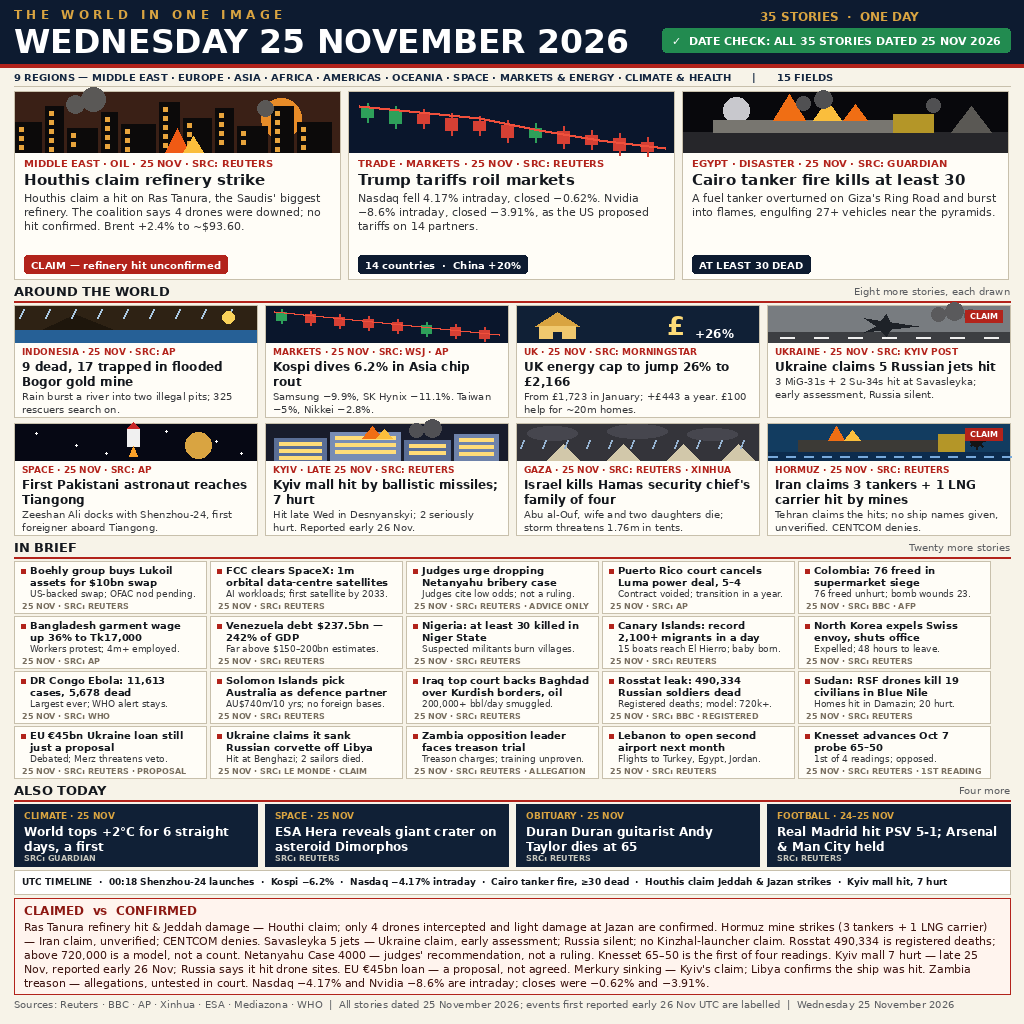
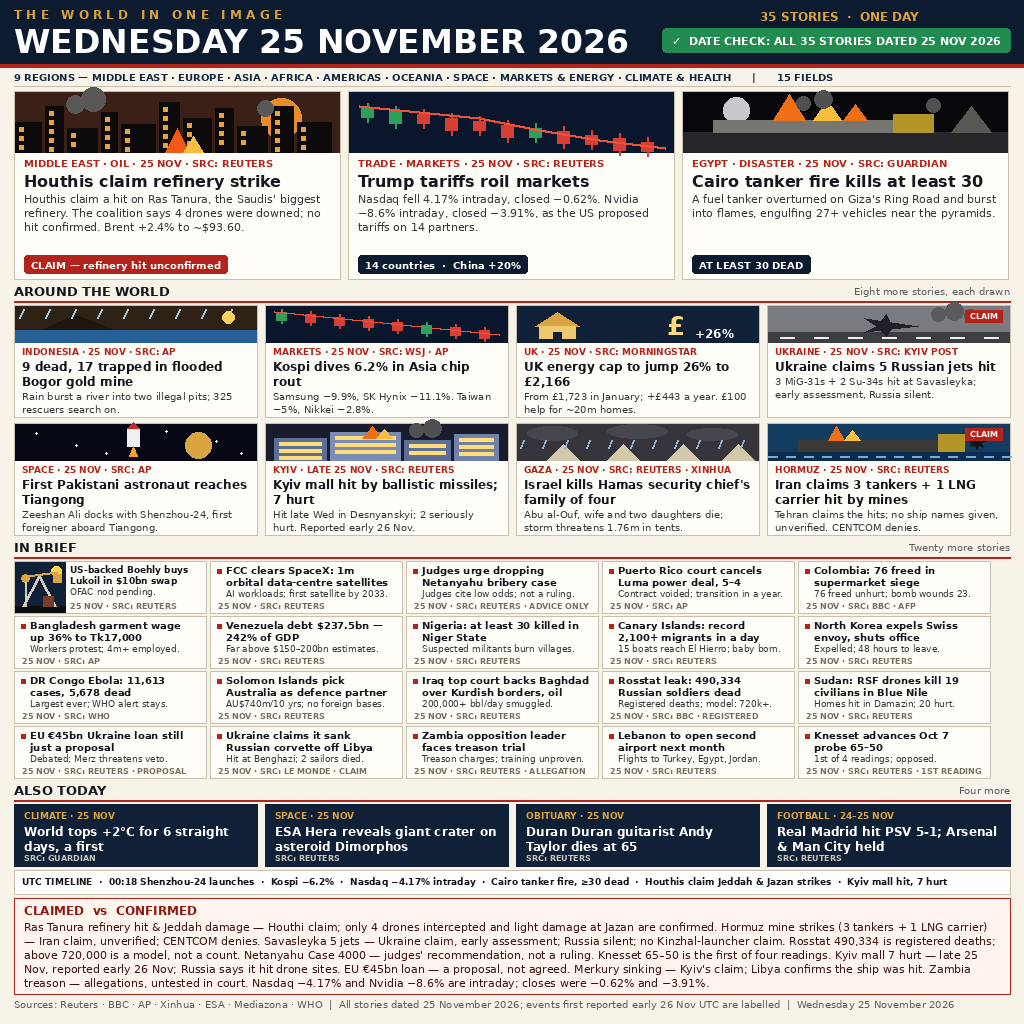
news image 25 nov v4

diff --git a/main.ts b/main.ts
@@ -1,4 +1,4 @@
-// news-image-20261125 v3 — entrypoint.
+// news-image-20261125 v4 — entrypoint.
 //
 // The finished 1024x1024 entry.png sits next to this file. This script
 // validates it byte by byte and then copies it to
@@ -13,7 +13,7 @@
 //   * at least one non-empty IDAT chunk, all IDAT chunks consecutive,
 //     a well-formed IEND, no trailing bytes, and total size at most 1 MiB
 //   * a PLTE chunk, if present, holds whole RGB entries (length % 3 == 0,
-//     at most 256 entries)
+//     at most 256 entries) and appears at most once
 // After copying, the output file is read back and its sha256 and size
 // must match the source exactly. Node 22 stdlib only — no dependencies,
 // no network. A plain copy, so two runs are byte-identical.
@@ -64,6 +64,7 @@ let chunkCount = 0;
 let foundIHDR = false;
 let foundIDAT = false;
 let foundIEND = false;
+let foundPLTE = false;
 let idatStarted = false;
 let idatEnded = false;
 let idatBytes = 0;
@@ -105,11 +106,22 @@ while (offset < png.length) {
     }
   }
   if (type === "PLTE") {
+    if (foundPLTE) die("duplicate PLTE chunk");
+    foundPLTE = true;
     if (length % 3 !== 0) die("PLTE length must be a multiple of 3, got " + length);
     if (length > 768) die("PLTE holds at most 256 entries, got " + length / 3);
   }
   if (type === "IDAT") {
     if (idatEnded) die("IDAT chunks are not consecutive");
+    if (!idatStarted && length >= 2) {
+      // First IDAT bytes must be a valid zlib stream header (CMF 0x78,
+      // and (CMF * 256 + FLG) divisible by 31).
+      const cmf = png[dataStart];
+      const flg = png[dataStart + 1];
+      if (cmf !== 0x78 || (cmf * 256 + flg) % 31 !== 0) {
+        die("first IDAT chunk does not start with a valid zlib header");
+      }
+    }
     idatStarted = true;
     idatBytes += length;
     if (length > 0) foundIDAT = true;

diff --git a/README.md b/README.md
@@ -4,7 +4,7 @@
 [![rank](https://make.fun/badge/news-image-20261125/sobihum/news-image-20261125/rank.svg)](https://make.fun/bounty/news-image-20261125/leaderboard?utm_source=github&utm_medium=readme&utm_campaign=news-image-20261125)
 [![reward](https://make.fun/badge/news-image-20261125/sobihum/news-image-20261125/reward.svg)](https://make.fun/bounty/news-image-20261125?utm_source=github&utm_medium=readme&utm_campaign=news-image-20261125)
 
-One image summing up Wednesday 25 November 2026 in 35 date-checked stories across 9 regions and 15 fields, with 11 drawn scenes: the Houthi–Saudi refinery standoff, Trump tariffs roiling markets, the Cairo tanker fire, and 32 more. Every story carries its own source and date label, claims are clearly labelled against confirmed facts, and a UTC timeline plus a date check tie the day together. Events first reported in the early hours of 26 November UTC are labelled as such.
+One image summing up Wednesday 25 November 2026 in 35 date-checked stories across 9 regions and 15 fields, with 12 drawn scenes: the Houthi–Saudi refinery standoff, Trump tariffs roiling markets, the Cairo tanker fire, a Lukoil pumpjack, and 31 more. Every story carries its own source and date label, claims are clearly labelled against confirmed facts, and a UTC timeline plus a date check tie the day together. Events first reported in the early hours of 26 November UTC are labelled as such.
 
 ## Run it
 
